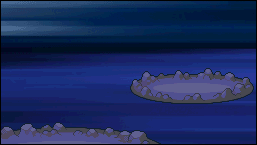
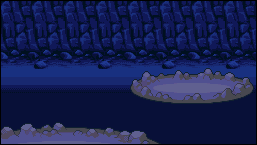
Added awesome battle backgrounds

diff --git a/src/Teambuilder/basebattlewindow.cpp b/src/Teambuilder/basebattlewindow.cpp
@@ -1172,7 +1172,7 @@ BaseGraphicsZone::BaseGraphicsZone(BaseBattleInfo *i) : mInfo(i)
     items.resize(info().numberOfSlots);
 
     scene.setSceneRect(0,0,257,145);
-    scene.addItem(new QGraphicsPixmapItem(QPixmap(QString("db/battle_fields/%1.png").arg((rand()%11)+1))));
+    scene.addItem(new QGraphicsPixmapItem(QPixmap(QString("db/battle_fields/%1.png").arg((rand()%15)+1))));
 
     for (int i = 0; i < info().numberOfSlots; i++) {
         items[i] = new QGraphicsPixmapItem();
